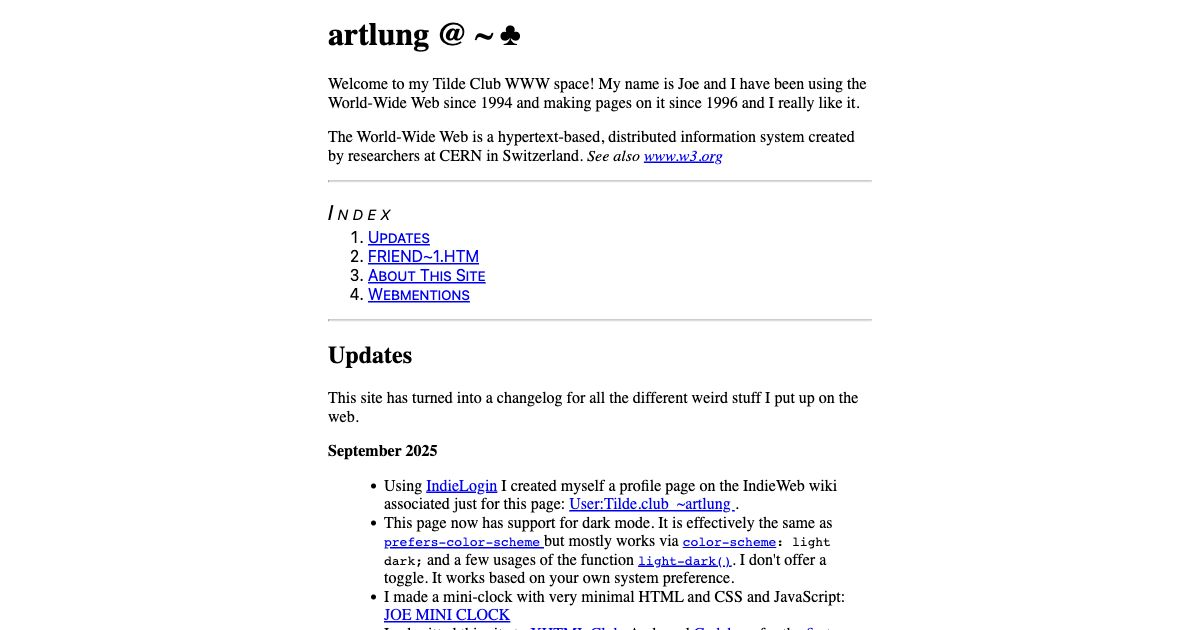
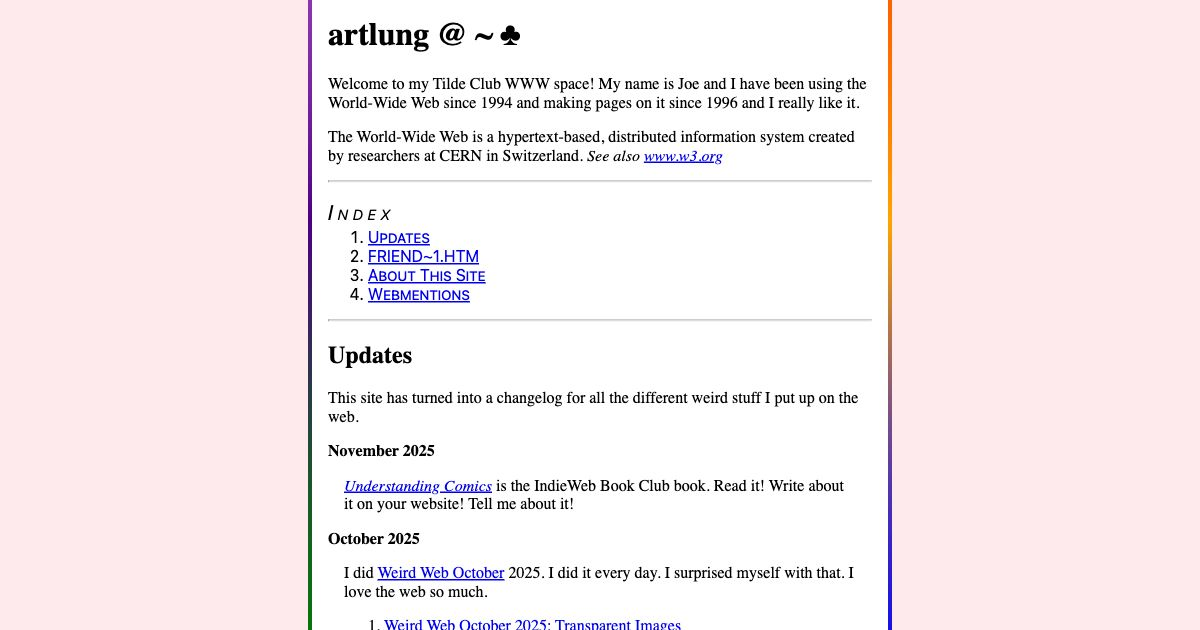
Updating for October and November

Changed region(s): [[0.2467, 0.0, 0.7092, 1.0], [0.74, 0.0, 0.7708, 1.0], [0.6475, 0.9952, 0.6783, 1.0]]

diff --git a/public_html/tilde.css b/public_html/tilde.css
@@ -1,1 +1,1 @@
-html{height:100%;color-scheme:light dark}body{max-width:72ch;box-sizing:border-box;margin:0 auto;padding:2ch;min-height:100%;transition:background .5s ease-in-out;animation:swirl 6s infinite;--from: 45deg;background:linear-gradient(var(--baseColor), var(--baseColor)) 50% 50%/72ch 200% repeat-y,conic-gradient(from var(--from), red, orange, blue, green, indigo, violet) 50% 50%/73ch 100vh no-repeat var(--leastColor);background-attachment:fixed;--baseColor: light-dark(#fff, #191919);--leastColor: light-dark(#fee9ec,rebeccapurple)}body>p:last-child{padding:0 0 3ch 0}dt{font-weight:bold}dd{margin:1em}form[method=post]{margin:0;display:grid;gap:1rem;padding:1rem;background:#ffffe0;border:2px solid #ff0;font-family:system-ui,sans-serif;color:#666}form[method=post] *{margin:0;padding:0;display:block;width:100%;font-family:sans-serif;font-size:1rem}form[method=post] input{padding:.5rem}form:has(h2) h2>b{color:color-mix(in srgb, currentColor 80%, yellowgreen);background:#9acd32;aspect-ratio:1;border-radius:50%;display:inline-flex;justify-content:center;gap:2px;align-items:center;padding:2px;font-weight:normal;font-size:1.5rem;position:relative;border:1px solid}form:has(h2) h2>i{font-size:1rem;font-weight:normal;font-family:system-ui,sans-serif;display:inline-block;max-height:0;overflow:hidden;transition:max-height .3s linear}form:has(h2) form:has(h2) h2>i{padding:.5lh;background:#9acd32;line-height:1.4rem;margin:1lh 0}form:has(h2):has(input:checked) h2>i{margin:1lh 0 0;max-height:10lh;border:1px solid;background:#9acd32;padding:1lh}form:has(h2):has(input:checked) h2>b::after{content:"";position:absolute;display:block;height:1lh;overflow:hidden;background:#9acd32;bottom:-1lh;border-inline:1px solid;width:.2rem}@keyframes swirl{0%{--from: 0deg}50%{--from: 350deg}100%{--from: 0deg}}h2:has(+dl+form){border:3px double orange;background:bisque;padding:.1rem .5rem;line-height:1;color:#fa7b7b;font-family:sans-serif}dl:has(+form){display:grid;font-family:sans-serif;gap:.33rem;margin:0 0 1rem .75rem}dl:has(+form) dt{font-weight:normal;color:#fa7b7b}dl:has(+form) dd{margin:0 0 0 1rem;display:flex;gap:1rem;justify-content:start;align-items:center}dl:has(+form) dd img{opacity:.9;width:1.5rem;aspect-ratio:1;border-radius:50%}a:has(img[ismap]){display:block;width:min-content}a:has(img[ismap]) img{display:block;width:549px;height:60px}h2:has(+a[name=INDEX]),a[name=INDEX]~ol{font-family:system-ui,sans-serif;font-variant-caps:petite-caps;font-size:1rem}h2:has(+a[name=INDEX]){margin-bottom:-0.8rem;letter-spacing:.3rem;font-size:1.3rem;font-style:italic;font-weight:400}
+html{height:100%;color-scheme:light dark}body{--baseColor: #fff;--leastColor: #fee9ec}@media screen and (prefers-color-scheme: dark){body{--baseColor: #191919;--leastColor: rebeccapurple}}body{max-width:72ch;box-sizing:border-box;margin:0 auto;padding:2ch;min-height:100%;transition:background .5s ease-in-out;animation:swirl 6s infinite;--from: 45deg;background:linear-gradient(var(--baseColor), var(--baseColor)) 50% 50%/72ch 200% repeat-y,conic-gradient(from var(--from), red, orange, blue, green, indigo, violet) 50% 50%/73ch 100vh no-repeat var(--leastColor);background-attachment:fixed}body>p:last-child{padding:0 0 3ch 0}dt{font-weight:bold}dd{margin:1em}form[method=post]{margin:0;display:grid;gap:1rem;padding:1rem;background:#ffffe0;border:2px solid #ff0;font-family:system-ui,sans-serif;color:#666}form[method=post] *{margin:0;padding:0;display:block;width:100%;font-family:sans-serif;font-size:1rem}form[method=post] input{padding:.5rem}form:has(h2) h2>b{color:color-mix(in srgb, currentColor 80%, yellowgreen);background:#9acd32;aspect-ratio:1;border-radius:50%;display:inline-flex;justify-content:center;gap:2px;align-items:center;padding:2px;font-weight:normal;font-size:1.5rem;position:relative;border:1px solid}form:has(h2) h2>i{font-size:1rem;font-weight:normal;font-family:system-ui,sans-serif;display:inline-block;max-height:0;overflow:hidden;transition:max-height .3s linear}form:has(h2) form:has(h2) h2>i{padding:.5lh;background:#9acd32;line-height:1.4rem;margin:1lh 0}form:has(h2):has(input:checked) h2>i{margin:1lh 0 0;max-height:10lh;border:1px solid;background:#9acd32;padding:1lh}form:has(h2):has(input:checked) h2>b::after{content:"";position:absolute;display:block;height:1lh;overflow:hidden;background:#9acd32;bottom:-1lh;border-inline:1px solid;width:.2rem}@keyframes swirl{0%{--from: 0deg}50%{--from: 350deg}100%{--from: 0deg}}h2:has(+dl+form){border:3px double orange;background:bisque;padding:.1rem .5rem;line-height:1;color:#fa7b7b;font-family:sans-serif}dl:has(+form){display:grid;font-family:sans-serif;gap:.33rem;margin:0 0 1rem .75rem}dl:has(+form) dt{font-weight:normal;color:#fa7b7b}dl:has(+form) dd{margin:0 0 0 1rem;display:flex;gap:1rem;justify-content:start;align-items:center}dl:has(+form) dd img{opacity:.9;width:1.5rem;aspect-ratio:1;border-radius:50%}a:has(img[ismap]){display:block;width:min-content}a:has(img[ismap]) img{display:block;width:549px;height:60px}h2:has(+a[name=INDEX]),a[name=INDEX]~ol{font-family:system-ui,sans-serif;font-variant-caps:petite-caps;font-size:1rem}h2:has(+a[name=INDEX]){margin-bottom:-0.8rem;letter-spacing:.3rem;font-size:1.3rem;font-style:italic;font-weight:400}

diff --git a/public_html/tilde.scss b/public_html/tilde.scss
@@ -2,7 +2,16 @@ html {
   height: 100%;
   color-scheme: light dark;
 }
-
+body {
+  --baseColor: #fff;
+  --leastColor: #fee9ec;
+}
+@media screen and (prefers-color-scheme: dark) {
+body {
+  --baseColor: #191919;
+  --leastColor: rebeccapurple;
+}
+}
 body {
   max-width: 72ch;
   box-sizing: border-box;
@@ -14,8 +23,6 @@ body {
   --from: 45deg;
   background: linear-gradient(var(--baseColor), var(--baseColor)) 50% 50%/72ch 200% repeat-y,conic-gradient(from var(--from), red, orange, blue, green, indigo, violet) 50% 50%/73ch 100vh no-repeat var(--leastColor);
   background-attachment: fixed;
-  --baseColor: light-dark(#fff, #191919);
-  --leastColor: light-dark(#fee9ec,rebeccapurple);
 
   > p:last-child {
     padding: 0 0 3ch 0;

diff --git a/public_html/index.php b/public_html/index.php
@@ -8,8 +8,17 @@
   ?>">
     <LINK rel="me authn" href="https://github.com/artlung">
     <LINK rel="me" href="https://artlung.com/">
-  <LINK rel="webmention" href="https://webmention.io/artlung.com/webmention">
-   <LINK rel="og:image" href="https://tilde.club/~artlung/og-tilde-club-artlung.jpg">
+    <LINK rel="webmention" href="https://webmention.io/artlung.com/webmention">
+    <?php
+    // let's feed preview images to certain user agents
+    $userAgent = $_SERVER['HTTP_USER_AGENT'] ?? '';
+    print "<!-- User Agent: " . htmlspecialchars($userAgent) . " -->\n";
+    $mightBeBluesky = stristr($userAgent, 'bluesky') || stristr($userAgent, 'bsky.app') || stristr($userAgent, 'cardyb');
+    $mightBeMastodon = stristr($userAgent, 'mastodon') || stristr($userAgent, 'fediverse');
+    if ($mightBeBluesky || $mightBeMastodon) {
+?><LINK property="og:image" content="https://tilde.club/%7Eartlung/og-tilde-club-artlung.jpg"><?php
+    }
+    ?>
 </HEAD>
 <BODY>
 
@@ -66,6 +75,72 @@ www.w3.org</A></I></P>
 
 <DL>
 
+    <DT>
+        November 2025
+    </DT>
+    <DD>
+
+        <P>
+            <EM>
+            <a href="https://artlung.com/understandingcomics-ibc/">Understanding Comics</a>
+            </EM>
+            is the IndieWeb Book Club book. Read it! Write about it on your website! Tell me about it!
+        </P>
+
+    </DD>
+
+
+    <DT>
+        October 2025
+    </DT>
+    <DD>
+        <P>
+            I did <A HREF="https://weirdweboctober.website">Weird Web October</A> 2025. I did it every day. I surprised myself with that. I love the web so much.
+        </P>
+        <ol>
+            <li><a href="https://artlung.com/wwo/">Weird Web October 2025: Transparent Images</a></li>
+            <li><a href="https://artlung.com/wwo/2/">Weird Web October: Maps</a></li>
+            <li><a href="https://artlung.com/wwo/3/">Weird Web October: Scramble</a></li>
+            <li><a href="https://artlung.com/wwo/4/">We dance (Filter Weird Web October)</a></li>
+            <li><a href="https://lab.artlung.com/squish-stretch-web/">Squish &amp; Stretch Web Pages Bookmarklet</a></li>
+            <li><a href="https://artlung.com/wwo/6/">Solids (Weird Web October 2025: 6)</a></li>
+            <li><a href="https://artlung.com/wwo/7/">Weird Web October 2025: Sub-Optimal</a></li>
+            <li><a href="https://artlung.com/wwo/8/">WWO #8: It is clicky and griddy</a></li>
+            <li><a href="https://artlung.com/wwo/9/">Blink (Happy Halloween 2025)</a></li>
+            <li><a href="https://artlung.com/wwo/10/">Warning: No hope is on offer in this place. WWO 2025</a></li>
+            <li><a href="https://artlung.com/wwo/11/">Affirmations Mirror (WWO 2025 #11)</a></li>
+            <li><a href="https://artlung.com/wwo/12/">Battles (Weird Web October 12)</a></li>
+            <li><a href="https://lab.artlung.com/upside-down/">Upside Down Web Page Bookmarklet</a></li>
+            <li><a href="https://artlung.com/wwo/14/">Doubles Weird Web October #14 2025</a></li>
+            <li><a href="https://artlung.com/wwo/15/">Unicode: Nobody wins (WWO #15)</a></li>
+            <li><a href="https://artlung.com/wwo/16/">WWO/2025/#16/Transition</a></li>
+            <li><a href="https://artlung.com/wwo/17/">Illumination (Weird Web October 2025 #17)</a></li>
+            <li><a href="https://artlung.com/wwo/18/">WeirdCoin (Trading) WWO 2025 #18</a></li>
+            <li><a href="https://artlung.com/wwo/19/">Bounce (Weird Web October 2025 #19)</a></li>
+            <li><a href="https://artlung.com/wwo/20/">Paste Image Thingee (WWO 2020 #20)</a></li>
+            <li><a href="https://artlung.com/wwo/21/">Weird Web October 2025 ~ Prompt #21: Language</a></li>
+            <li><a href="https://artlung.com/wwo/22/">Weird Web October 2025 Prompt #22: Memory</a></li>
+            <li><a href="https://artlung.com/wwo/23/">Style (Pinwheels for Weird Web October 2025 #23)</a></li>
+            <li><a href="https://artlung.com/wwo/24/">JUST A COUNTER (WWO #24)</a></li>
+            <li><a href="https://artlung.com/wwo/25/">Empty (take a trip and run out of gas) WWO 2025 #25</a></li>
+            <li><a href="https://lab.artlung.com/bookmarklet-pattern/">Web Page Pattern Bookmarklet</a></li>
+            <li><a href="https://artlung.com/wwo/27/">Spell (WWO 27) 2025</a></li>
+            <li><a href="https://artlung.com/wwo/28/">Lincoln's Second Inaugural as Tables (WWO #28)</a></li>
+            <li><a href="https://artlung.com/wwo/29/">Surprise (a snowflake maker) (WWO 2025 #29)</a></li>
+            <li><a href="https://artlung.com/wwo/30/">ISO/IEC 15445:2000 HTML (Weird Web October 2025 #30)</a></li>
+            <li><a href="https://artlung.com/wwo/31/">Spooky Gallery ArtLung Weird Web October 2025</a></li>
+        </ol>
+
+    </DD>
+    <DD>
+        I did some other website stuff too. Updated more pages than I can remember:
+        <a href="https://artlung.com/cv/">my CV</a>,
+        <a href="https://artlung.com/blank/">this page intentionally left blank</a>,
+        and I created two pages of pages:
+        <a href="https://artlung.com/slashes/">Slashes</a> and
+        <a href="https://artlung.com/site-index/">Site Index</a>.
+    </DD>
+
     <DT>September 2025</DT>
     <DD>
         <UL>
@@ -82,7 +157,6 @@ www.w3.org</A></I></P>
             </LI>
             <LI>
                 This page now has support for
-                <!--dark mode mdn-->
                 dark mode. It is effectively the same as
                 <A HREF="https://developer.mozilla.org/en-US/docs/Web/CSS/@media/prefers-color-scheme">
                     <CODE>prefers-color-scheme</CODE>
